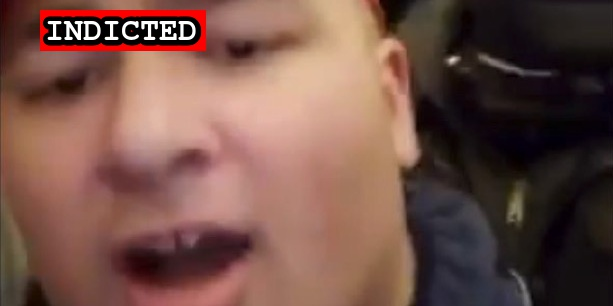
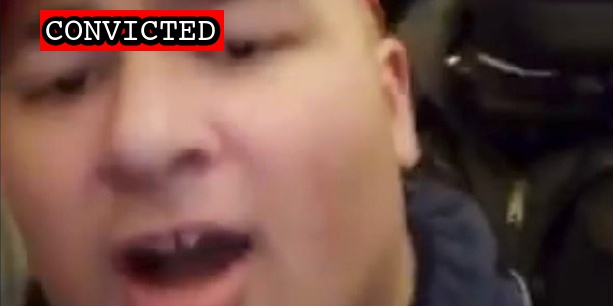
Latest import

Changed region(s): [[0.062, 0.0294, 0.3719, 0.1765]]

diff --git a/docs/_suspects/benjamin-larocca.md b/docs/_suspects/benjamin-larocca.md
@@ -4,15 +4,17 @@ lastName: Larocca
 hashtag: BenjaminLarocca
 aka:
 residence: Texas
-status: Indicted
+status: Convicted
 date: 2021-03-12
 charged: 2021-03-12
 indicted: 2021-04-23
-convicted:
+convicted: 2022-04-08
+acquitted:
 sentenced:
 dismissed:
 deceased:
 plea_hearing: 2022-04-08
+trial_date:
 sentencing:
 age: 27
 occupation:
@@ -34,9 +36,14 @@ published: true
 caseNumber: 1:21-cr-317
 videos:
 charges:
+  - code: 18 USC § 1752(a)(1)
+    title: Entering a restricted building or grounds
+    url: https://www.law.cornell.edu/uscode/text/18/1752
+    felony: false
 sentence:
 ---
 
 - [News Report](https://www.khou.com/article/news/nation-world/details-houston-residents-arrested-capitol-riots/285-0fb5c466-4f23-4131-a53f-5b3a6fd508c6)
-- [Statement of Facts](https://www.justice.gov/usao-dc/case-multi-defendant/file/1386226/download)
+- [Statement of Facts](https://www.justice.gov/usao-dc/case-multi-defendant/file/1493566/download)
 - [Indictment](https://www.justice.gov/usao-dc/case-multi-defendant/file/1390366/download)
+- [Plea Agreement](https://www.justice.gov/usao-dc/case-multi-defendant/file/1493561/download)
